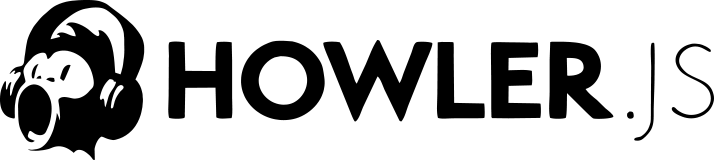
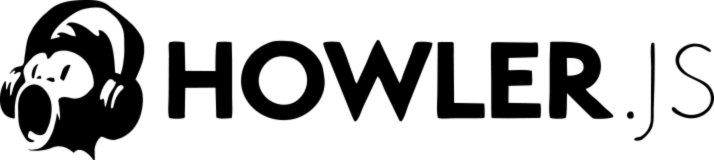
Update based on feed back, add white background to howler img

diff --git a/README.md b/README.md
@@ -5,14 +5,14 @@
 <div align="center"><img src="src/assets/readme-images/home-page.png" alt="Homepage large" class="center" width="600" height="auto"></div>
 
 # Table of Contents
-- [Screen Shots](#app-examples)
+- [Screenshots](#app-examples)
 - [Tech & Tools Used](#tech-and-tools)
 - [Contributors](#contributors)
 
 ## About
-Who's who is a song guessing game for everyone! A user can hear a song clip and guess from a multiple choice selection. Who's Who is a front end application following [business requirements](OUTLINE.md) with a wireframe and component functionality breakdown for planning.
+Who's Who is a song guessing game for everyone! A user can hear a song clip and guess from a multiple choice selection. Who's Who is a front end application following [business requirements](OUTLINE.md) with a wireframe and component functionality breakdown for planning.
 
-This project was created during [Cook Systems](https://cooksys.com/) <a href="https://www.allaboutfasttrack.com/" style="color: green;">Fast Track</a> Program.
+This project was created during the [Cook Systems](https://cooksys.com/) <a href="https://www.allaboutfasttrack.com/" style="color: green;">Fast Track</a> Program.
 
 ### Features
 - Use a standard or custom Spotify playlist!
